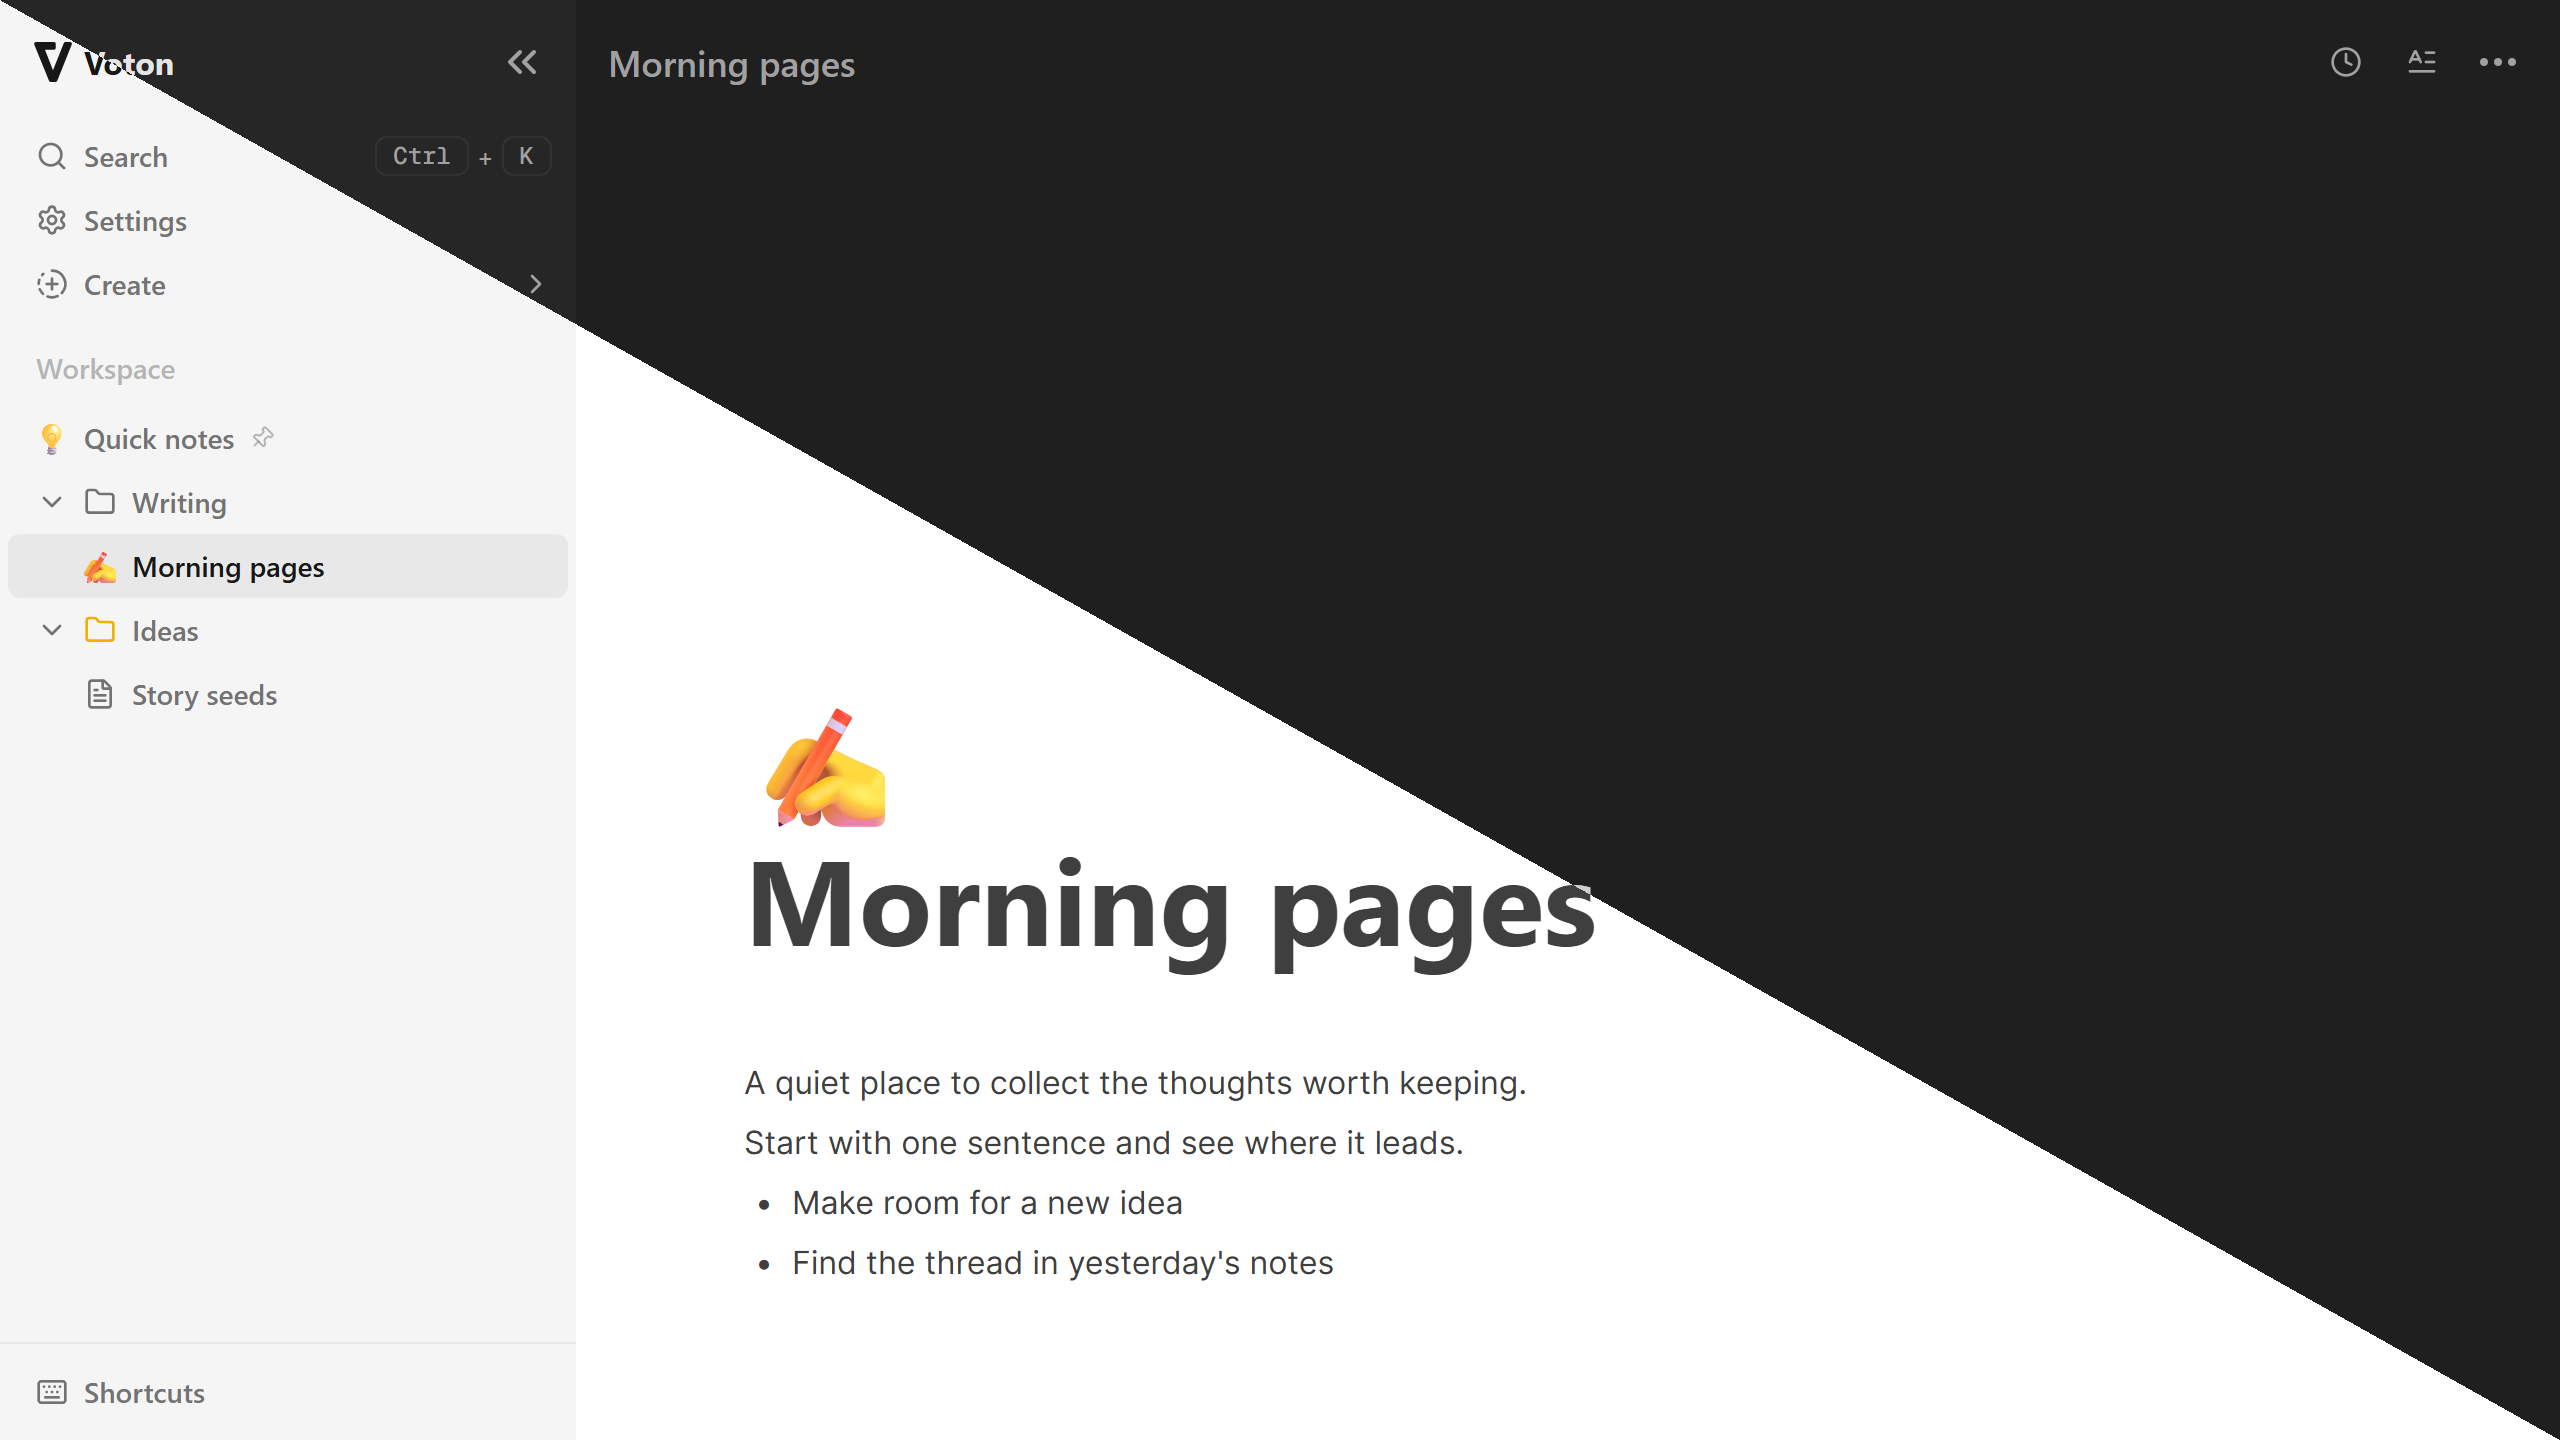
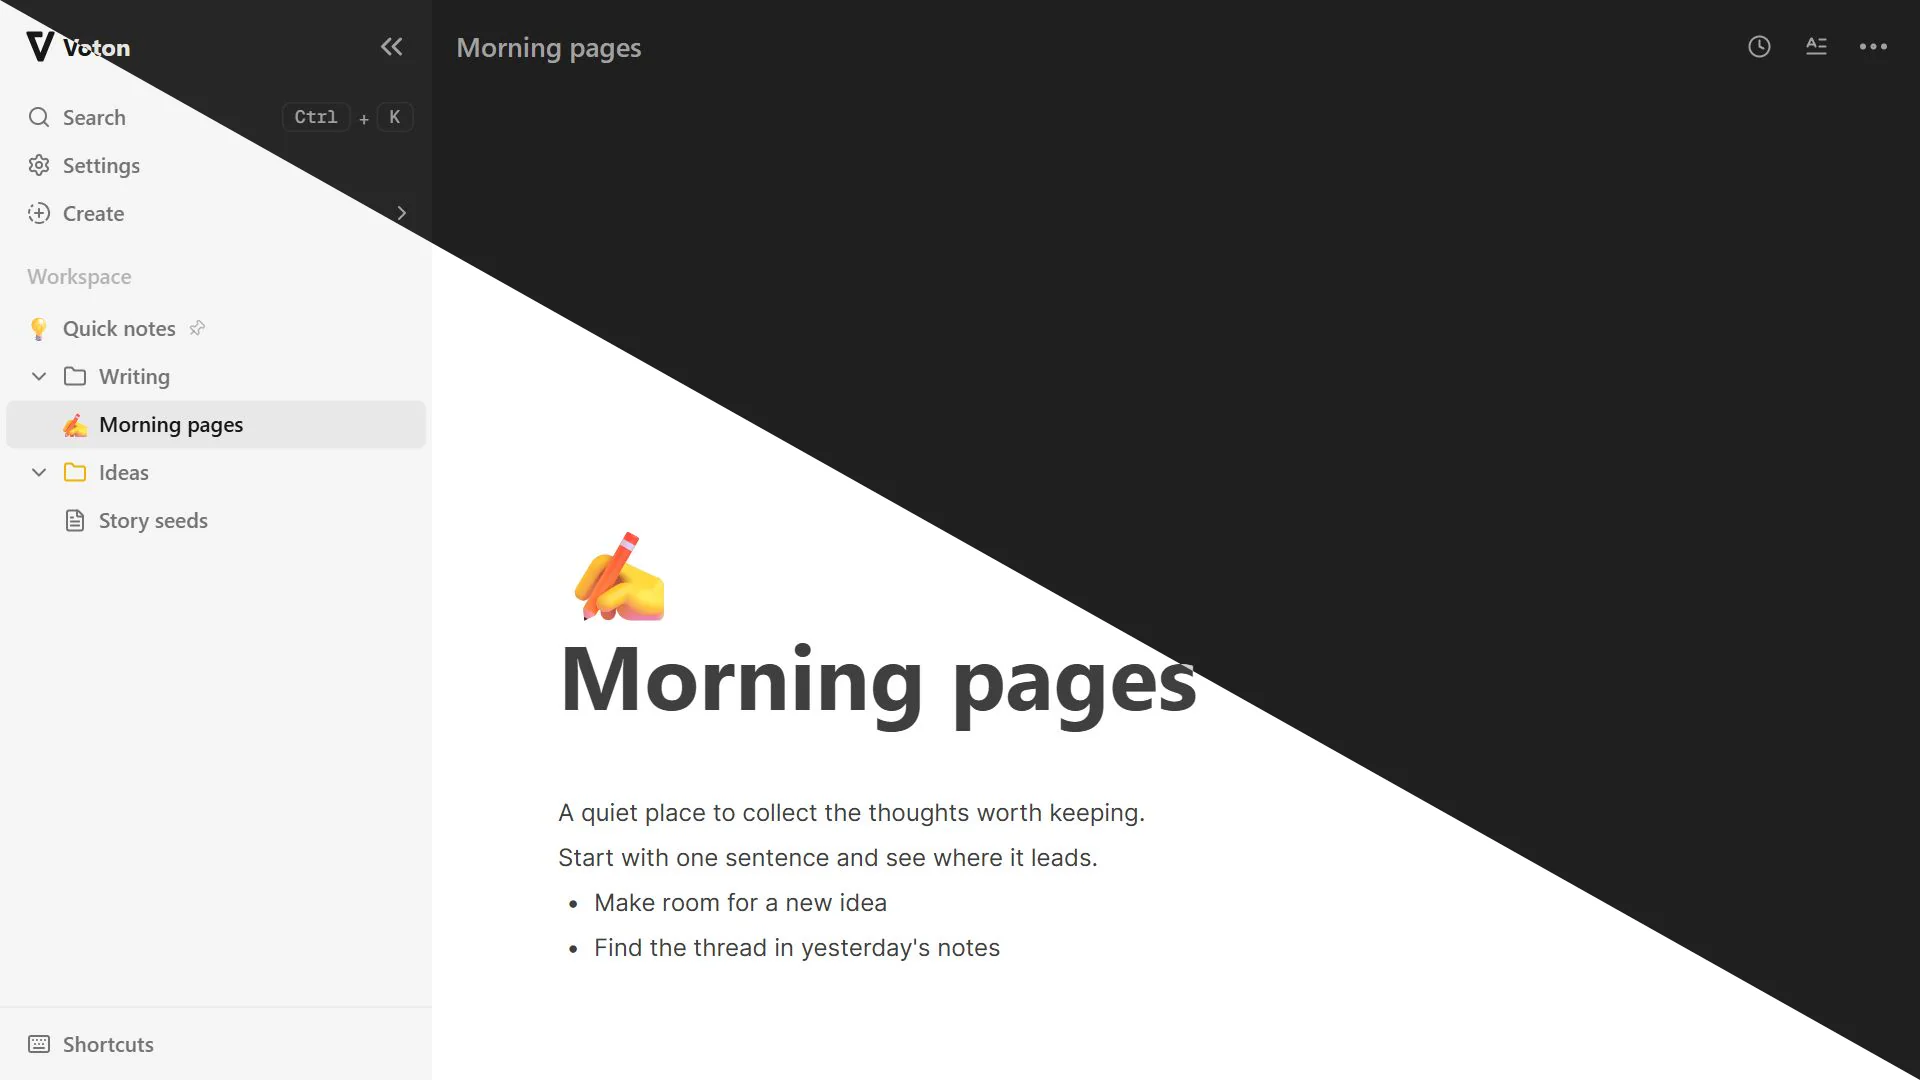
Fix mobile workspace layout and refresh visual assets
- Keep the mobile sidebar over the workspace without shifting the navbar,
  and prevent interaction with the navbar while the sidebar is open.
- Limit collapsed-sidebar editor spacing to desktop, prevent workspace
  overflow, and improve welcome and not-found screen sizing.
- Refresh logos, error illustrations, and the README workspace screenshot;
  use static image imports for app icons and illustrations.
- Bump app, settings, and JSON export versions to 0.2.71.

diff --git a/app/(main)/_components/navigation.tsx b/app/(main)/_components/navigation.tsx
@@ -90,13 +90,18 @@ const Navigation = () => {
     return () => resizeObserver.disconnect();
   }, []);
 
-  // Sets sidebar width and adjusts the navbar position directly in the DOM, skipping React state.
-  const applySidebarStyles = useCallback((sidebarWidth: string) => {
-    if (!sidebarRef.current || !navbarRef.current) return;
-    sidebarRef.current.style.width = sidebarWidth;
-    navbarRef.current.style.left = sidebarWidth;
-    navbarRef.current.style.width = `calc(100% - ${sidebarWidth})`;
-  }, []);
+  // Mobile navigation overlays the workspace; only desktop navigation offsets the navbar.
+  const applySidebarStyles = useCallback(
+    (sidebarWidth: string) => {
+      if (!sidebarRef.current || !navbarRef.current) return;
+      sidebarRef.current.style.width = sidebarWidth;
+      navbarRef.current.style.left = isMobile ? "0px" : sidebarWidth;
+      navbarRef.current.style.width = isMobile
+        ? "100%"
+        : `calc(100% - ${sidebarWidth})`;
+    },
+    [isMobile],
+  );
 
   // Hides the sidebar instantly without animation — safe to call inside useEffect bodies.
   const collapseDOM = useCallback(() => {
@@ -302,7 +307,7 @@ const Navigation = () => {
         ref={sidebarRef}
         inert={isCollapsed}
         className={cn(
-          "group/aside relative z-[55] flex h-full w-72 flex-col bg-secondary text-muted-foreground",
+          "group/aside relative z-[55] flex h-full w-72 shrink-0 flex-col bg-secondary text-muted-foreground [@media(width<=1024px)]:fixed [@media(width<=1024px)]:top-0 [@media(width<=1024px)]:left-0",
           isResetting && "transition-all duration-200",
           isMobile && "w-0",
         )}
@@ -407,6 +412,7 @@ const Navigation = () => {
 
       <div
         ref={navbarRef}
+        inert={isMobile && !isCollapsed}
         className={cn(
           "fixed top-0 left-72 z-50 w-[calc(100%-288px)]",
           isResetting && "transition-all duration-200",
@@ -419,10 +425,13 @@ const Navigation = () => {
         )}
       >
         {documentId && isDocumentFound ? (
-          <Navbar isCollapsed={isCollapsed} onResetWidth={resetSidebarWidth} />
+          <Navbar
+            isCollapsed={isMobile || isCollapsed}
+            onResetWidth={resetSidebarWidth}
+          />
         ) : (
-          <nav className="w-full p-4 pt-6">
-            {isCollapsed && (
+          <nav className="w-full p-4">
+            {(isMobile || isCollapsed) && (
               <div
                 onClick={resetSidebarWidth}
                 role="button"

diff --git a/app/not-found.tsx b/app/not-found.tsx
@@ -3,32 +3,34 @@ import Image from "next/image";
 import Link from "next/link";
 
 import { Button } from "@/components/ui/button";
+import errorIllustration from "@/public/error.webp";
+import errorIllustrationDark from "@/public/error-dark.webp";
 
 export const metadata: Metadata = {
   title: { absolute: "Page Not Found - Voton" },
   description: "The page you are looking for could not be found.",
 };
 
-const ERROR_IMAGE_SRC = "/error.webp";
-const ERROR_IMAGE_SRC_DARK = "/error-dark.webp";
 const ERROR_IMAGE_WIDTH = 300;
 const ERROR_IMAGE_HEIGHT = 150;
 
 const NotFound = () => {
   return (
-    <div className="flex h-screen w-full flex-col items-center justify-center truncate text-center">
+    <div className="flex min-h-dvh w-full flex-col items-center justify-center truncate text-center">
       <Image
-        src={ERROR_IMAGE_SRC}
+        src={errorIllustration}
         width={ERROR_IMAGE_WIDTH}
         height={ERROR_IMAGE_HEIGHT}
         alt="Page not found illustration"
+        unoptimized
         className="dark:hidden"
       />
       <Image
-        src={ERROR_IMAGE_SRC_DARK}
+        src={errorIllustrationDark}
         width={ERROR_IMAGE_WIDTH}
         height={ERROR_IMAGE_HEIGHT}
         alt="Page not found illustration"
+        unoptimized
         className="hidden dark:block"
       />
       <h1 className="text-2xl font-bold">Ooops!</h1>

diff --git a/app/(main)/not-found.tsx b/app/(main)/not-found.tsx
@@ -2,27 +2,29 @@ import Image from "next/image";
 import Link from "next/link";
 
 import { Button } from "@/components/ui/button";
+import errorIllustration from "@/public/error.webp";
+import errorIllustrationDark from "@/public/error-dark.webp";
 
-const ERROR_IMAGE_SRC = "/error.webp";
-const ERROR_IMAGE_SRC_DARK = "/error-dark.webp";
 const ERROR_IMAGE_WIDTH = 300;
 const ERROR_IMAGE_HEIGHT = 150;
 
 const NotFound = () => {
   return (
-    <div className="flex h-screen w-full flex-col items-center justify-center truncate text-center">
+    <div className="flex min-h-full w-full flex-col items-center justify-center truncate text-center">
       <Image
-        src={ERROR_IMAGE_SRC}
+        src={errorIllustration}
         width={ERROR_IMAGE_WIDTH}
         height={ERROR_IMAGE_HEIGHT}
         alt="Page not found illustration"
+        unoptimized
         className="dark:hidden"
       />
       <Image
-        src={ERROR_IMAGE_SRC_DARK}
+        src={errorIllustrationDark}
         width={ERROR_IMAGE_WIDTH}
         height={ERROR_IMAGE_HEIGHT}
         alt="Page not found illustration"
+        unoptimized
         className="hidden dark:block"
       />
       <h1 className="text-2xl font-bold">Ooops!</h1>

diff --git a/app/(main)/(routes)/documents/page.tsx b/app/(main)/(routes)/documents/page.tsx
@@ -8,9 +8,9 @@ import { toast } from "sonner";
 import { Button } from "@/components/ui/button";
 import { useIsMac } from "@/hooks/use-is-mac";
 import { addFolder, addPage } from "@/lib/database/documents";
+import logo from "@/public/logo.svg";
+import logoDark from "@/public/logo-dark.svg";
 
-const LOGO_SRC = "/logo.svg";
-const LOGO_SRC_DARK = "/logo-dark.svg";
 const LOGO_SIZE = 100;
 
 const DocumentsPage = () => {
@@ -42,16 +42,16 @@ const DocumentsPage = () => {
   };
 
   return (
-    <div className="flex h-screen flex-col items-center justify-center truncate text-center">
+    <div className="flex min-h-full flex-col items-center justify-center truncate text-center">
       <Image
-        src={LOGO_SRC}
+        src={logo}
         width={LOGO_SIZE}
         height={LOGO_SIZE}
         alt="Logo"
         className="dark:hidden"
       />
       <Image
-        src={LOGO_SRC_DARK}
+        src={logoDark}
         width={LOGO_SIZE}
         height={LOGO_SIZE}
         alt="Logo"

diff --git a/components/logo.tsx b/components/logo.tsx
@@ -2,9 +2,8 @@ import { cva, type VariantProps } from "class-variance-authority";
 import Image from "next/image";
 
 import { cn } from "@/lib/utils";
-
-const LOGO_SRC = "/logo.svg";
-const LOGO_SRC_DARK = "/logo-dark.svg";
+import logo from "@/public/logo.svg";
+import logoDark from "@/public/logo-dark.svg";
 
 const textVariants = cva("font-bold", {
   variants: {
@@ -35,14 +34,14 @@ export const Logo = ({ size, className }: LogoProps) => {
   return (
     <div className={cn("flex items-center justify-center", className)}>
       <Image
-        src={LOGO_SRC}
+        src={logo}
         width={imageSize}
         height={imageSize}
         alt="Logo"
         className="dark:hidden"
       />
       <Image
-        src={LOGO_SRC_DARK}
+        src={logoDark}
         width={imageSize}
         height={imageSize}
         alt="Logo"

diff --git a/app/(main)/_components/toolbar.tsx b/app/(main)/_components/toolbar.tsx
@@ -67,7 +67,7 @@ export const Toolbar = ({ initialData }: ToolbarProps) => {
     <div
       className={cn(
         "group mb-12 mt-6 flex flex-col justify-center px-21 max-lg:px-13.5 transition-all duration-200",
-        isCollapsed && "px-42",
+        isCollapsed && "[@media(width>1024px)]:px-42",
       )}
     >
       <div
@@ -102,7 +102,7 @@ export const Toolbar = ({ initialData }: ToolbarProps) => {
       </div>
 
       {!!initialData.icon && (
-        <div className="group/icon mb-2 flex w-fit items-center">
+        <div className="group/icon mb-2 flex w-fit items-center gap-2">
           <EmojiPickerPopover onEmojiClick={onEmojiSelect}>
             <p className="cursor-pointer text-6xl max-lg:text-5xl transition-all hover:opacity-75">
               {initialData.icon}

diff --git a/app/layout.tsx b/app/layout.tsx
@@ -2,6 +2,8 @@ import type { Metadata } from "next";
 import { Geist, Geist_Mono } from "next/font/google";
 import "./globals.css";
 import { ThemeProvider } from "@/providers/theme-provider";
+import logo from "@/public/logo.svg";
+import logoDark from "@/public/logo-dark.svg";
 
 const geistSans = Geist({
   variable: "--font-geist-sans",
@@ -24,11 +26,11 @@ export const metadata: Metadata = {
     icon: [
       {
         media: "(prefers-color-scheme: light)",
-        url: "/logo.svg",
+        url: logo.src,
       },
       {
         media: "(prefers-color-scheme: dark)",
-        url: "/logo-dark.svg",
+        url: logoDark.src,
       },
     ],
   },

diff --git a/components/editor.tsx b/components/editor.tsx
@@ -159,7 +159,7 @@ export default function Editor({ onChange, initialData }: EditorProps) {
       theme={resolvedTheme === "light" ? "light" : "dark"}
       className={cn(
         "px-7.5 max-lg:px-0 transition-all duration-200",
-        isCollapsed && "px-29.5",
+        isCollapsed && "[@media(width>1024px)]:px-29.5",
       )}
     />
   );

diff --git a/app/(main)/layout.tsx b/app/(main)/layout.tsx
@@ -102,7 +102,7 @@ const MainLayoutContent = ({ children }: { children: React.ReactNode }) => {
       <MoveToCommand />
       <ShortcutsModal />
 
-      <main className="h-full flex-1 overflow-y-auto will-change-scroll">
+      <main className="h-full min-w-0 flex-1 overflow-y-auto will-change-scroll">
         {children}
       </main>
 

diff --git a/lib/database/export-import.ts b/lib/database/export-import.ts
@@ -4,7 +4,7 @@ import { prepareMarkdownContent, validateEditorContent } from "./content";
 import { validateHierarchy } from "./hierarchy";
 import { Folder, Page } from "./types";
 
-const EXPORT_VERSION = "0.2.70";
+const EXPORT_VERSION = "0.2.71";
 const ACCEPTED_FILE_TYPES = ".json,.md";
 
 export interface VotonExportData {

diff --git a/components/modals/settings-modal.tsx b/components/modals/settings-modal.tsx
@@ -187,7 +187,7 @@ export const SettingsModal = () => {
 
         <Separator />
 
-        <div className="text-xs text-muted-foreground font-mono">v0.2.70</div>
+        <div className="text-xs text-muted-foreground font-mono">v0.2.71</div>
       </DialogContent>
     </Dialog>
   );
